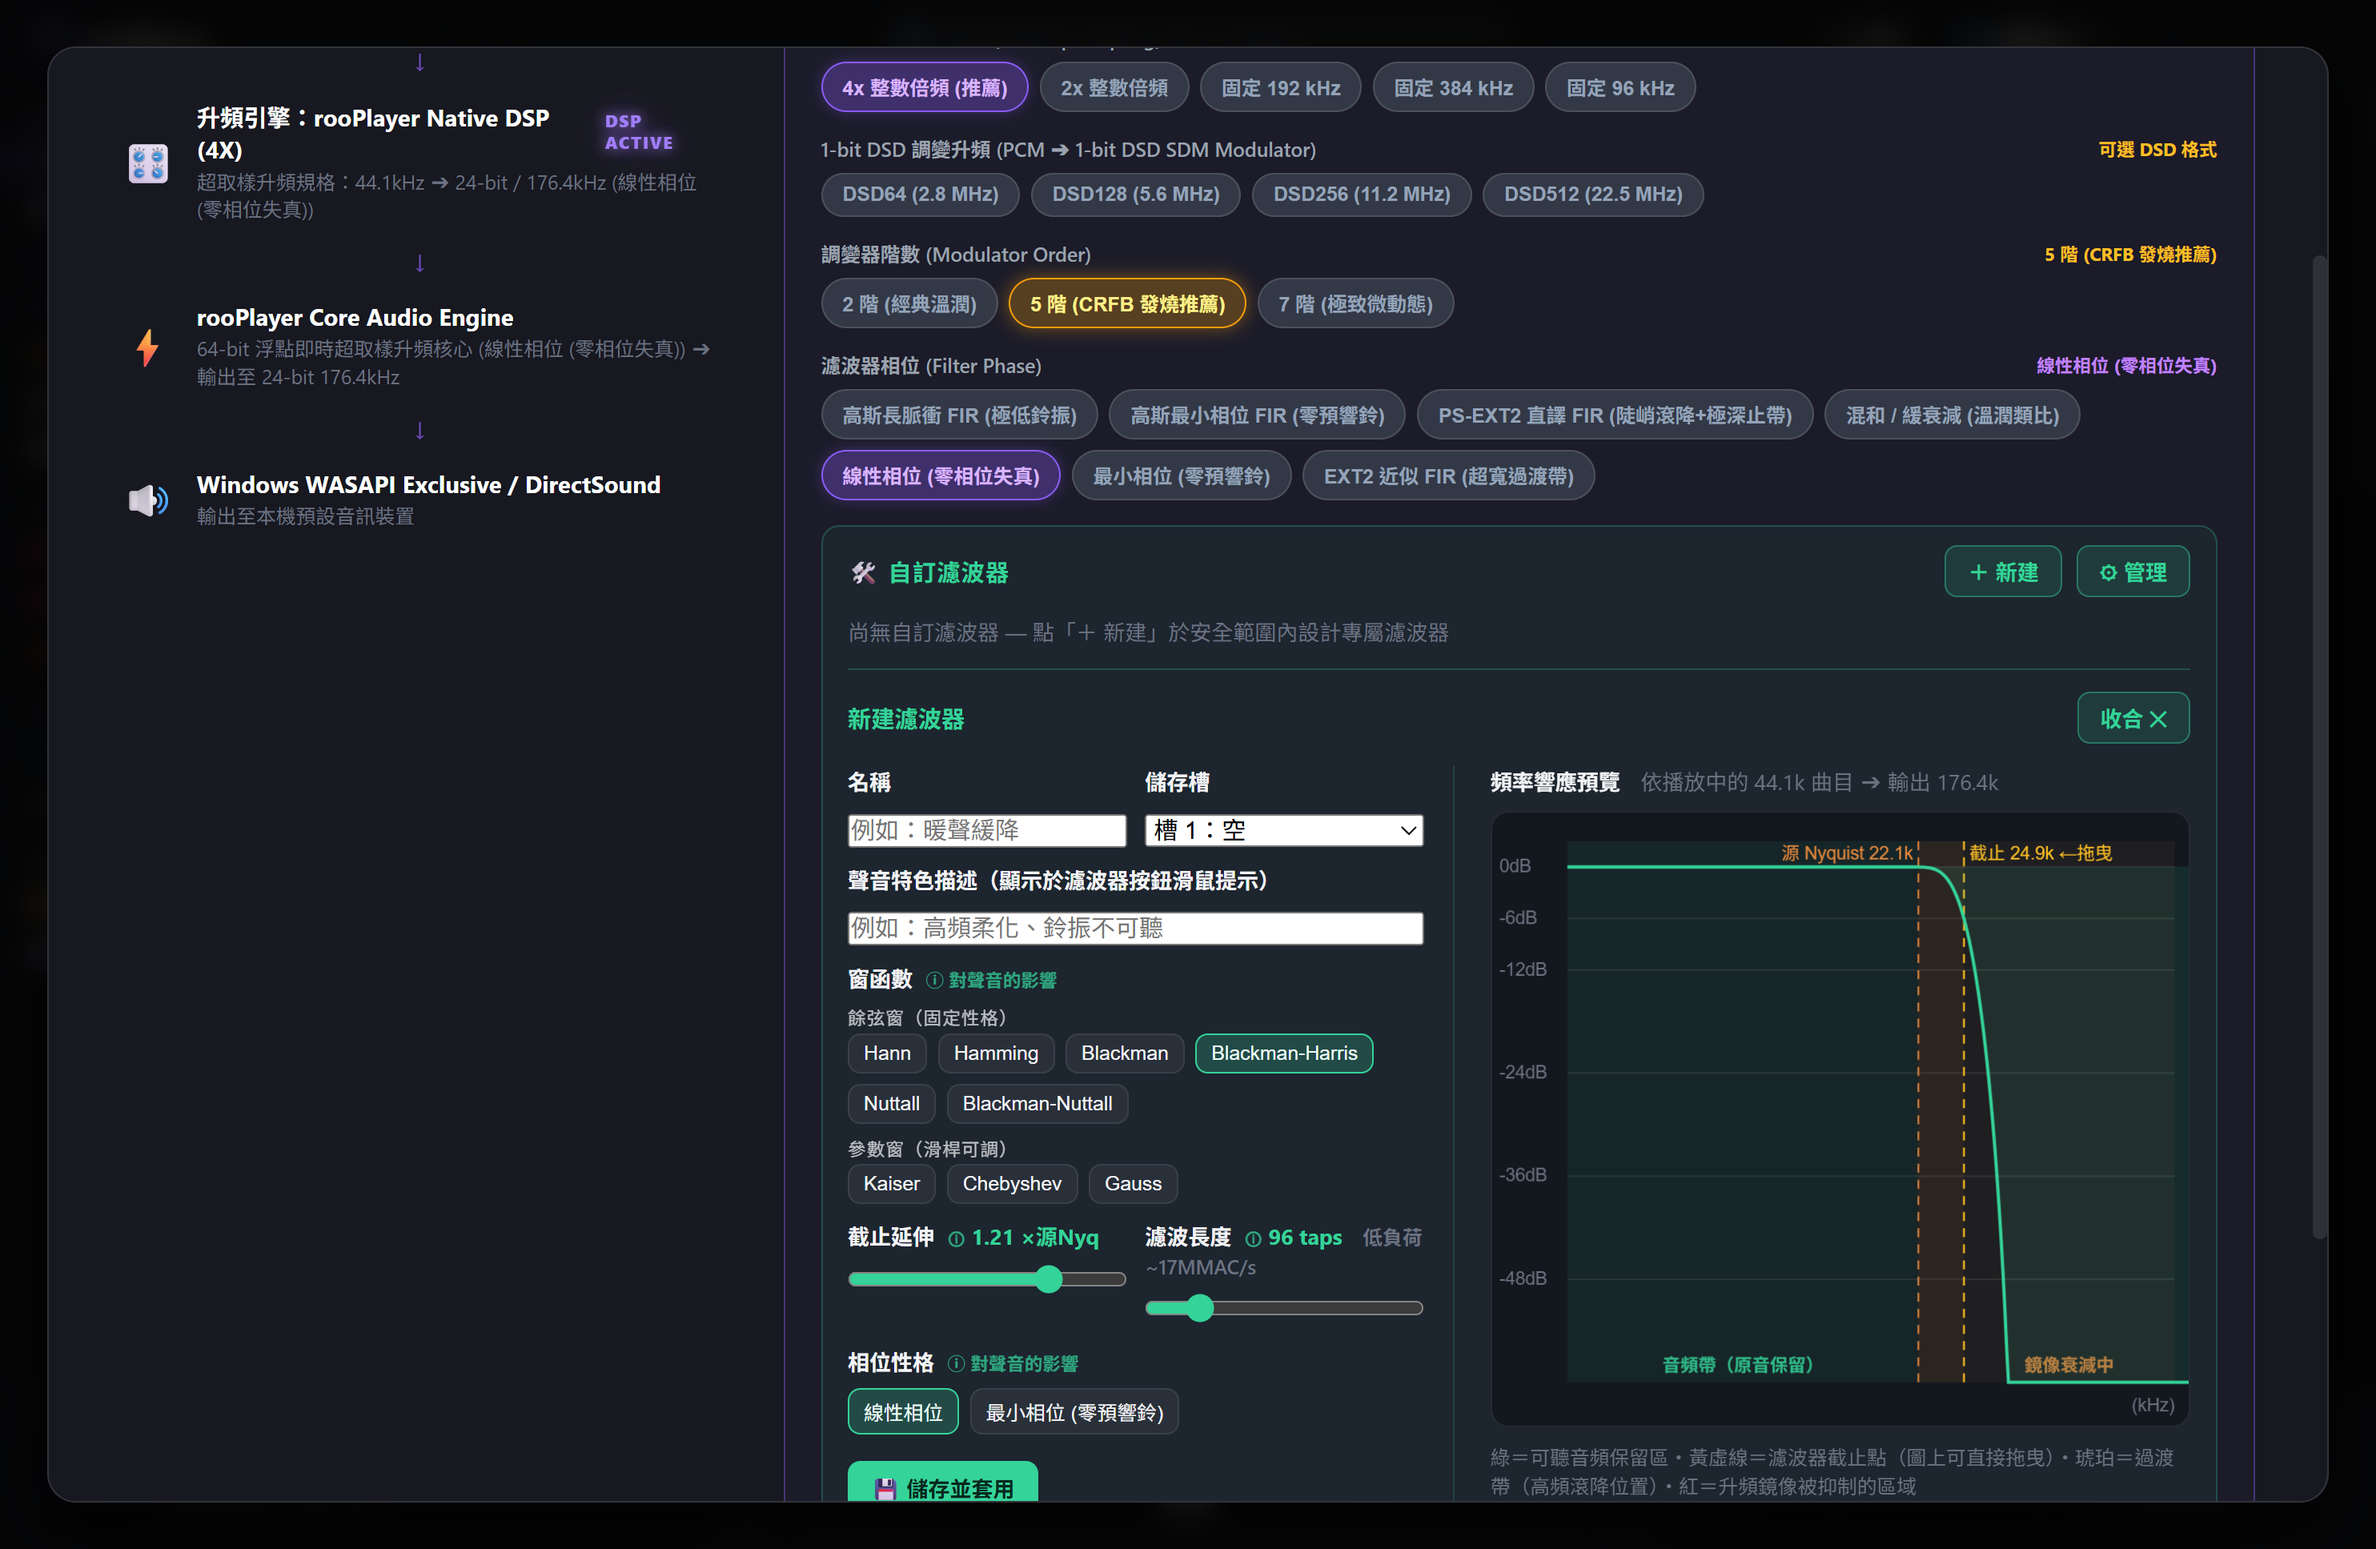
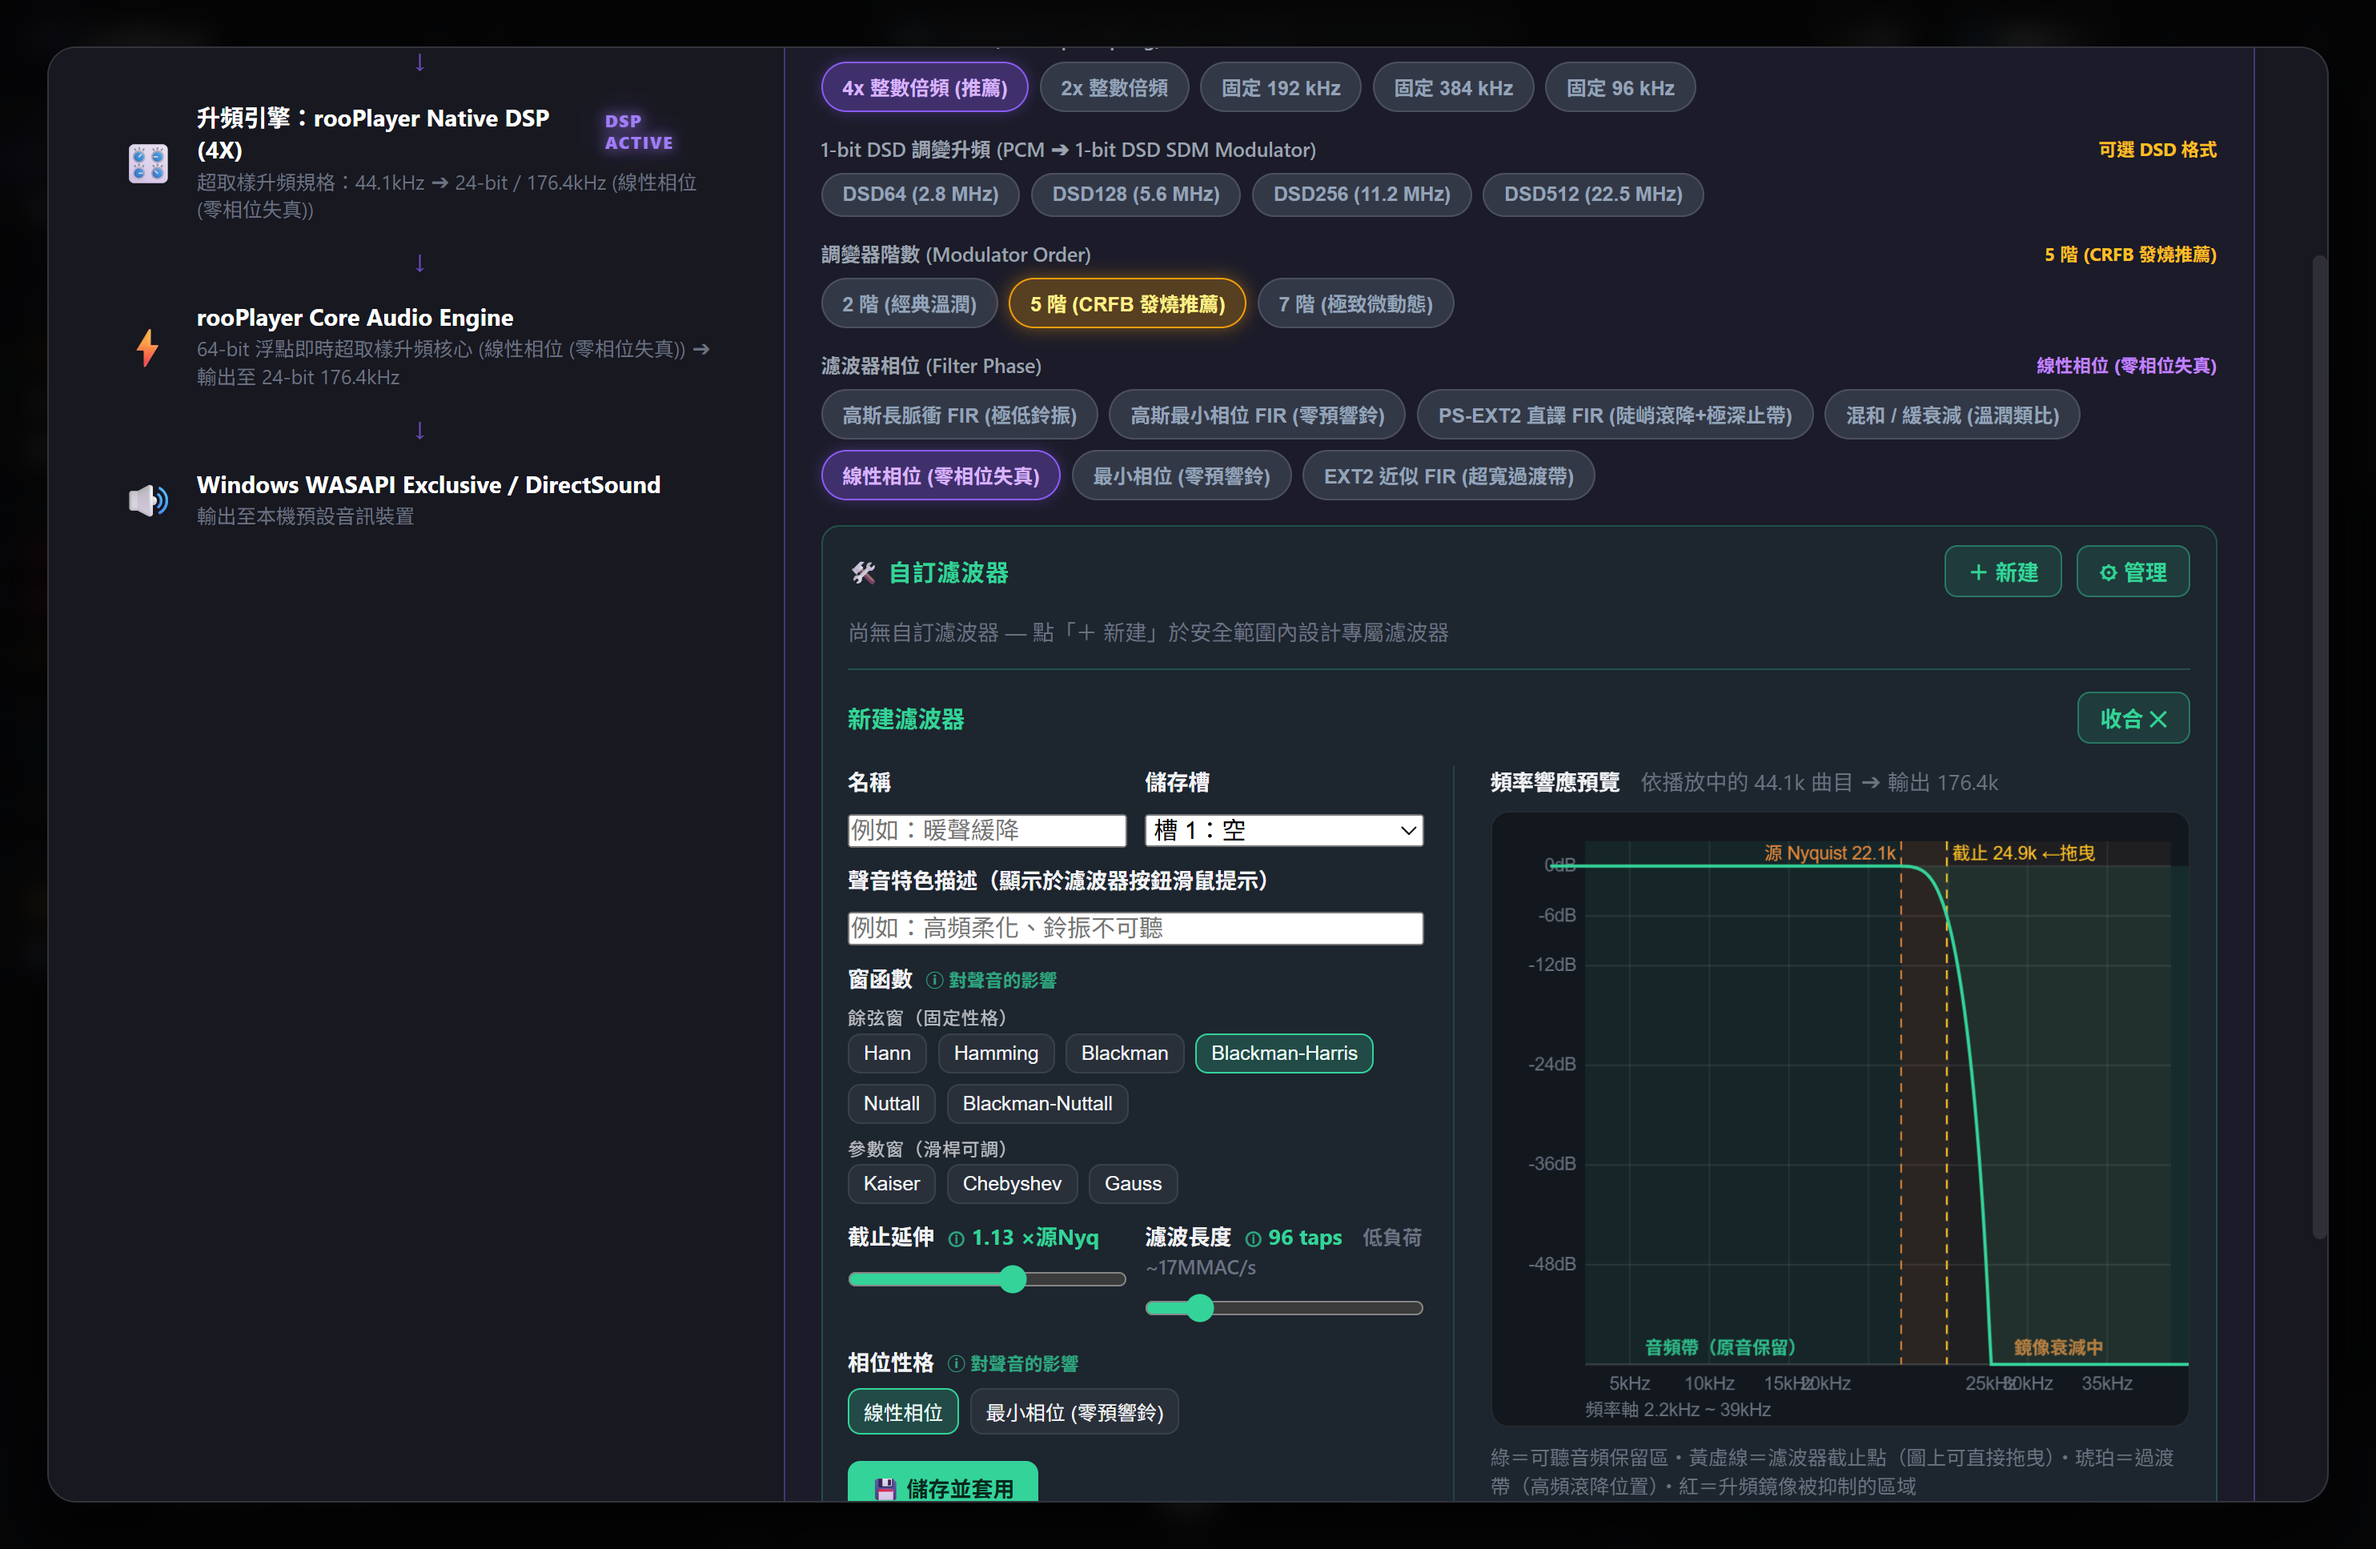
fix: 頻率響應圖軸標完整可見（dB標籤右對齊進留白、底部頻率軸Hz〜kHz完整單位與整數刻度）

diff --git a/app.js b/app.js
@@ -8428,7 +8428,8 @@ function drawUfPreview(cv, data, ctx) {
   cv.style.cursor = 'default';
   const cs = getComputedStyle(document.documentElement);
   const textCol = (cs.getPropertyValue('--text-muted') || '#888').trim() || '#888';
-  const padL = 42, padR = 8, padT = 16, padB = 24;
+  // 左側留白加大：dB 標籤（-48dB 等）要完整落在畫布內，不再被左邊緣裁切
+  const padL = 52, padR = 10, padT = 16, padB = 34;
   // 最佳化分貝軸（Y 軸）：動態範圍設為 +3dB 到 -60dB（跨度 63dB）
   // 過去 -120dB 讓通帶與過渡帶擠在頂部 1/5；現在改為 0~-60dB，滾降曲線與不同窗函數的陡峭度擴大超過 2 倍！
   const dbTop = 3, dbBot = -60;
@@ -8446,8 +8447,12 @@ function drawUfPreview(cv, data, ctx) {
   // 現在把 X 軸視窗直接縮放並平移至截止點附近：xMin = max(0, fc - 1.3×源Nyq), xMax = min(fsOut/2, fc + 0.6×源Nyq)。
   // 這樣滾降的完整弧度、不同 taps 的陡峭差異都會橫向展開到畫布寬度的 40% 以上，一眼可辨！
   const fcRaw = Number.isFinite(data.fcHz) && data.fcHz > 0 ? Math.min(data.fcHz, fsOut / 2) : 0;
-  const fMin = fcRaw > 0 ? Math.max(0, fcRaw - 1.3 * srcNyq) : 0;
-  const fMax = fcRaw > 0 ? Math.min(fsOut / 2, fcRaw + 0.6 * srcNyq) : Math.min(fsOut / 2, 1.1 * srcNyq * 2);
+  // 左緣固定從音頻帶低端（源Nyq/10 ≈ 2.2kHz）開始：低頻端才能放得下 5k/10k/15k… 的數字刻度；
+  // 若仍用 fc−1.3×源Nyq，左緣會貼著 0Hz，第一個可用刻度（20k）剛好被源 Nyquist 虛線吃掉，整段左半邊都沒有數字。
+  const fMin = fcRaw > 0 ? Math.max(0, srcNyq / 10) : 0;
+  // 右緣至少涵蓋鏡像帶＋抑制零點（fc + 0.6×源Nyq），再向外補到「整數 kHz」邊界（例如 38.1k → 40k）：
+  // 軸寬變成整数 kHz，所有可選步進都是整数 kHz，刻度數字永遠乾淨好讀。
+  const fMax = fcRaw > 0 ? Math.min(fsOut / 2, Math.ceil((fcRaw + 0.6 * srcNyq) / 1000) * 1000) : Math.min(fsOut / 2, 1.1 * srcNyq * 2);
   const xOf = f => padL + (f - fMin) / (fMax - fMin) * (W - padL - padR);
   const plotW = W - padL - padR;
   // 邊界：源 Nyquist（可聽音頻上緣）、截止 fc（可拖曳）、鏡像抑制零點（止帶起點）
@@ -8481,39 +8486,54 @@ function drawUfPreview(cv, data, ctx) {
     fillBand(srcNyq, fMax, 'rgba(248,113,113,0.06)');
   }
 
-  // ---- dB 網格（+3dB ~ -60dB，標示 0, -12, -24, -36, -48, -60 dB，過渡帶深度清清楚楚）----
+  // ---- dB 網格（+3dB ~ -60dB，標籤靠右對齊貼齊繪圖區左緣，完整可見不被裁切）----
   g.strokeStyle = 'rgba(128,128,128,0.18)'; g.fillStyle = textCol; g.font = '10px sans-serif'; g.lineWidth = 1;
+  g.textAlign = 'right';
   for (const db of [0, -6, -12, -24, -36, -48]) {
     const y = yOf(db);
     g.beginPath(); g.moveTo(padL, y); g.lineTo(W - padR, y); g.stroke();
-    g.fillText(db === 0 ? '0dB' : db + 'dB', 4, y + 3);
+    g.fillText(db === 0 ? '0dB' : db + 'dB', padL - 5, y + 3);
   }
 
-  // ---- 頻率網格：依「可見視窗寬度」自動選步進，讓轉折位置能直接讀 kHz。
-  // 源 Nyquist／截止／止帶的虛線本身就算刻度，所以它們附近不再放數字，避免疊字。----
+  // ---- 頻率網格：依「可見視窗寬度」自動選步進。刻度一律標出完整數值與單位
+  // （小於 1kHz 顯示 Hz、其餘顯示 kHz，例如 500Hz / 1.5k / 24k），一眼讀得出單位。
+  // 虛線標記（源Nyq／截止）附近只「挪開」數字、不取消刻度：把標籤推到最近的可用位置，
+  // 避免窄欄下整條軸沒有數字可讀。----
   const spanHz = fMax - fMin;
-  let stepHz = 500;
-  for (const s of [500, 1000, 2000, 5000, 10000]) { if (Math.floor(spanHz / s) <= 8) { stepHz = s; break; } }
-  const nearMark = (f) => {
-    const xs = [xOf(f)];
-    if (hasMarks) xs.push(fcxX, xOf(stopMark), xOf(srcNyq));
-    return xs.some(x => Math.abs(x - xOf(f)) < 20);
-  };
+  let stepHz = 100;
+  for (const s of [100, 200, 500, 1000, 2000, 5000, 10000]) { if (Math.floor(spanHz / s) <= 8) { stepHz = s; break; } }
+  const markXs = hasMarks ? [fcxX, xOf(stopMark), xOf(srcNyq)].filter(x => Number.isFinite(x)) : [];
   g.textAlign = 'center';
-  const fmtTick = (f) => stepHz >= 1000 ? (Math.round(f / 1000) + 'k') : ((f / 1000).toFixed(1) + 'k');
+  const fmtTick = (f) => {
+    if (f < 1000) return Math.round(f) + 'Hz';
+    if (stepHz < 1000 || f % 1000 !== 0) return (f / 1000).toFixed(1) + 'kHz';
+    return Math.round(f / 1000) + 'kHz';
+  };
   for (let f = Math.ceil(fMin / stepHz) * stepHz; f <= fMax + 1; f += stepHz) {
     const x = xOf(Math.min(f, fMax));
-    if (nearMark(f)) continue; // 讓位給源 Nyquist／截止／止帶標記，避免數字與虛線文字重疊
     g.strokeStyle = 'rgba(128,128,128,0.14)';
     g.beginPath(); g.moveTo(x, padT); g.lineTo(x, H - padB); g.stroke();
+    // 數字與虛線標記太近時，把數字往兩側推（先左後右），推到畫布內才畫；真的放不下才省略
+    let tx = x;
+    const clash = (cand) => markXs.some(mx => Math.abs(cand - mx) < 24);
+    if (clash(tx)) {
+      const left = x - 24, right = x + 24;
+      const okL = left >= padL + 12 && !clash(left), okR = right <= W - padR - 12 && !clash(right);
+      if (okL) tx = left; else if (okR) tx = right; else continue;
+    }
     g.fillStyle = textCol;
-    g.fillText(fmtTick(f), x, H - 8);
+    g.fillText(fmtTick(f), tx, H - 20);
   }
 
-  // 清楚標示 X 軸單位「(kHz)」於右下角座標刻度末端
-  g.textAlign = 'right';
+  // ---- 底部頻率軸：畫出一條實線軸與兩端範圍標籤（Hz〜kHz 完整單位），清楚標示圖表的頻率跨度。----
+  g.strokeStyle = 'rgba(128,128,128,0.35)';
+  g.beginPath(); g.moveTo(padL, H - padB); g.lineTo(W - padR, H - padB); g.stroke();
+  const axisFmt = (f) => f < 1000 ? Math.round(f) + 'Hz' : (Math.round(f / 100) / 10) + 'kHz';
   g.fillStyle = textCol;
-  g.fillText('(kHz)', W - padR, H - 8);
+  // 範圍文字放最底行（H-5），與刻度數字行（H-20）錯開；兩側還得避開「音頻帶／衰減中」區域標字的中間段，
+  // 所以左標籤從左下角起、右標籤靠右下角收，中間留給區域名稱。
+  g.textAlign = 'left';
+  g.fillText('頻率軸 ' + axisFmt(fMin) + ' ~ ' + axisFmt(fMax), padL, H - 5);
 
   // ---- 邊界虛線與圖內標字。標字一律放在繪圖區上方（曲線都在下方，不會壓到）。
   // 源 Nyquist 與截止線常貼得很近（cutoffRel≈1.05 時只差幾個像素），窄欄下文字比線距還寬：
